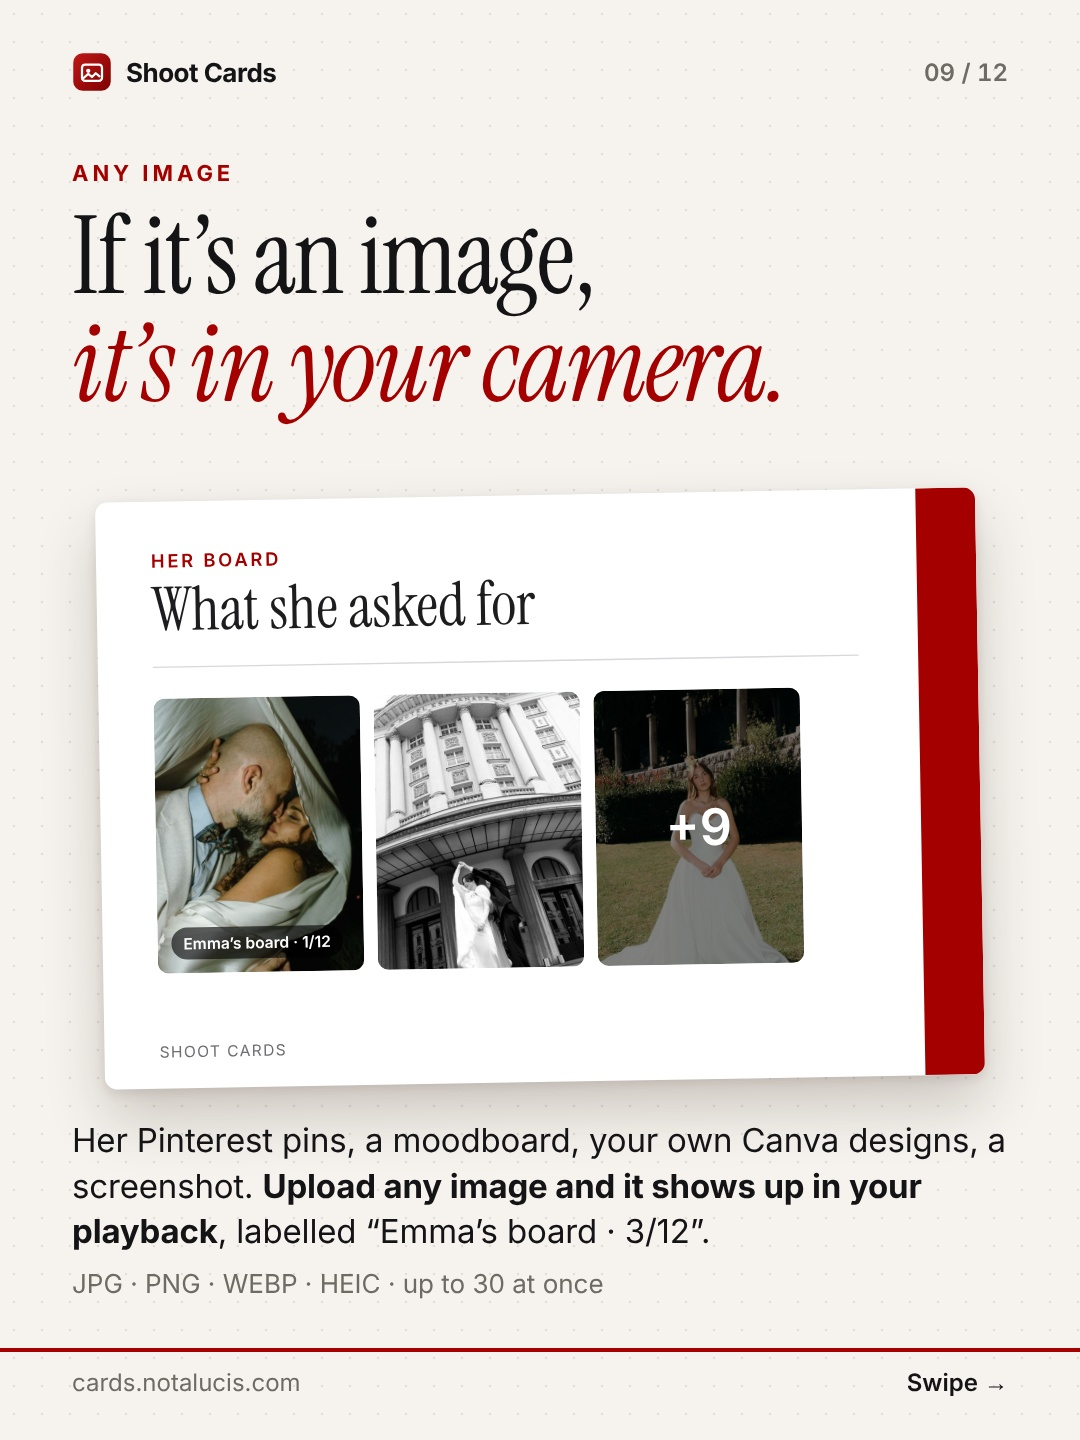
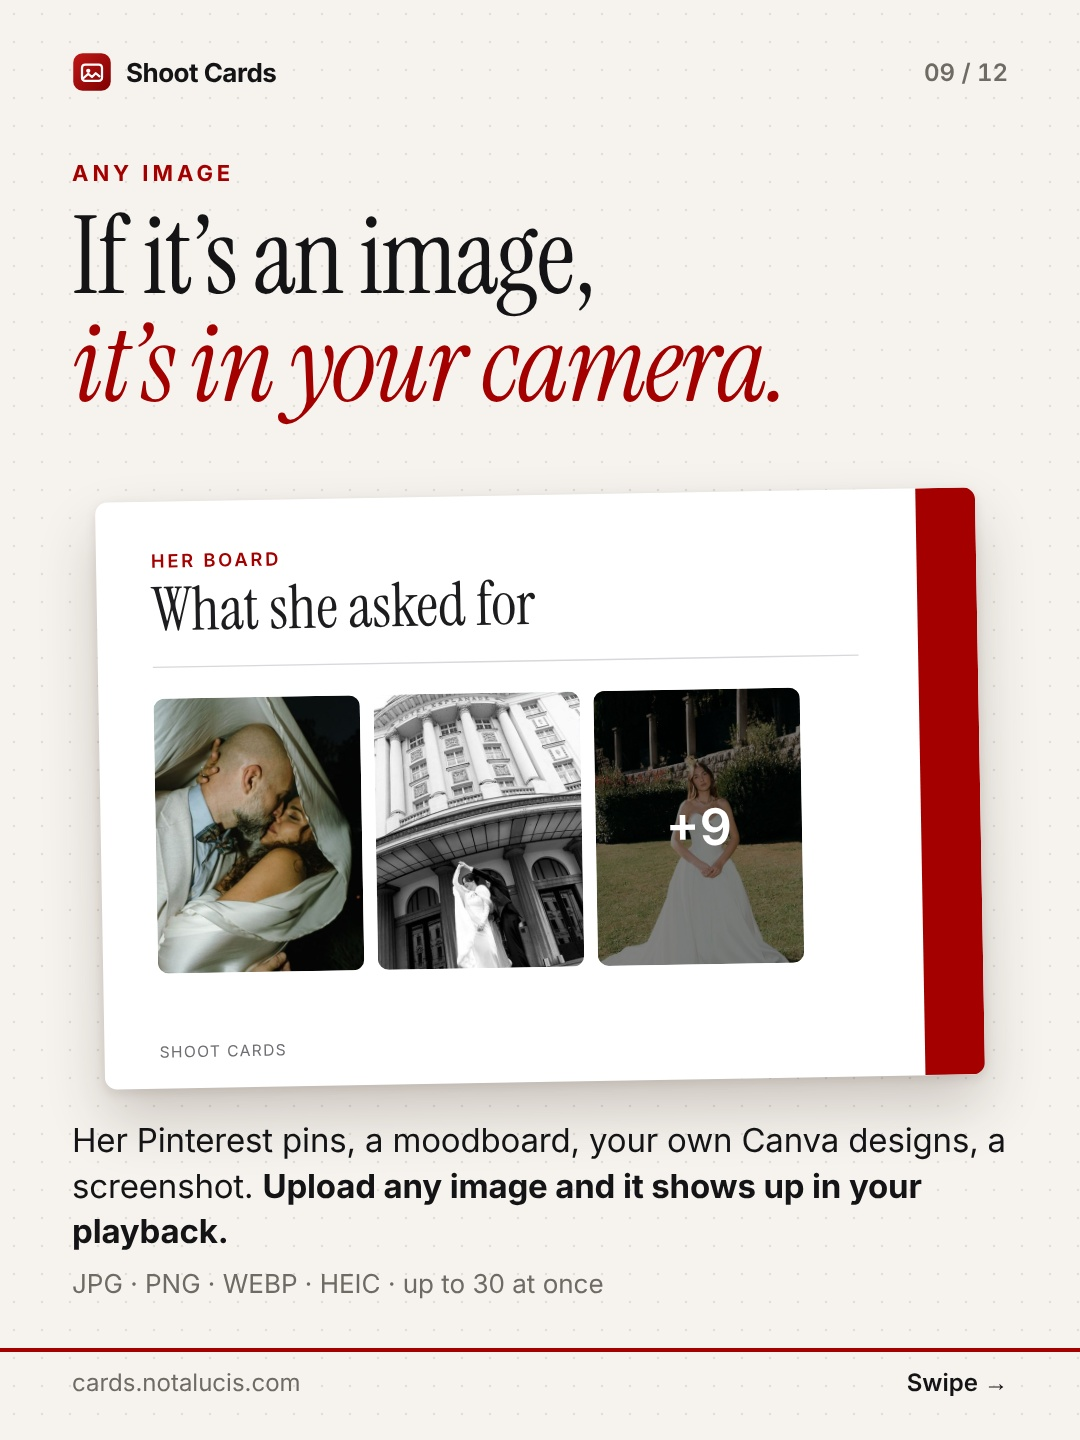
Carousel C: a bigger, sharper camera on slide 1; drop "Emma's board"
Slide 1's photo is now cropped tight from the full-size DSC08435, so the
camera fills the slide, and its line moves under the headline, clear of
the thumb. The any-image slide loses the "Emma's board" label.

Claude-Session: https://claude.ai/code/session_01TJFhN7m6aSDXZ3n1wrSHbs

Changed region(s): [[0.2139, 0.8438, 0.55, 0.875], [0.1528, 0.625, 0.3056, 0.6875], [0.5806, 0.8438, 0.6417, 0.875]]

diff --git a/video/src/carousel/ConceptC.tsx b/video/src/carousel/ConceptC.tsx
@@ -20,19 +20,19 @@ const Wide: React.FC<{ src: string; width: number; rotate?: number; style?: Reac
 const Hook: React.FC<P> = ({ n }) => {
   // The real thing, upright and whole: a hand on the camera, thumb on the dial, The First Look on the screen.
   // Its light wall melts into the paper at every edge.
-  const fade = "linear-gradient(to bottom, transparent 0%, #000 10%, #000 86%, transparent 100%), linear-gradient(to right, transparent 0%, #000 12%, #000 88%, transparent 100%)";
+  const fade = "linear-gradient(to bottom, transparent 0%, #000 5%, #000 82%, transparent 96%), linear-gradient(to right, transparent 0%, #000 7%, #000 93%, transparent 100%)";
   return (
     <Slide n={n} total={N}>
-      <div style={{ position: "absolute", left: 108, top: 300, width: 864, height: 1152, WebkitMaskImage: fade, maskImage: fade, WebkitMaskComposite: "source-in", maskComposite: "intersect" }}>
-        <Img src={staticFile("photos/DSC08435.jpg")} style={{ width: "100%", height: "100%", objectFit: "cover" }} />
+      {/* cropped from the full-size original (source/DSC08435.jpg) so the camera fills the slide */}
+      <div style={{ position: "absolute", left: 140, top: 468, width: 800, height: 1067, WebkitMaskImage: fade, maskImage: fade, WebkitMaskComposite: "source-in", maskComposite: "intersect" }}>
+        <Img src={staticFile("carousel/hook-camera.jpg")} style={{ width: "100%", height: "100%", objectFit: "cover" }} />
       </div>
       <div style={{ position: "absolute", left: M, right: M, top: 150 }}>
         <Label>For wedding photographers</Label>
         <Headline size={98} style={{ marginTop: 16 }}>{"Never look *unprepared*\nin front of a couple again."}</Headline>
+        <Body size={32} style={{ marginTop: 18, color: INK }}>Poses · timeline · family groups · shot list. <b style={{ color: RED }}>On your camera.</b></Body>
       </div>
-      <div style={{ position: "absolute", left: M, top: 1220, background: "rgba(20,20,22,0.85)", color: "#fff", borderRadius: 18, padding: "18px 26px", fontFamily: SANS, fontSize: 30, fontWeight: 600, letterSpacing: "-0.01em" }}>
-        Poses · timeline · family groups · shot list. <span style={{ color: "#ff8a7e" }}>On your camera.</span>
-      </div>
+
     </Slide>
   );
 };
@@ -144,12 +144,11 @@ const AnyImage: React.FC<P> = ({ n }) => {
               {i === 2 ? <div style={{ position: "absolute", inset: 0, background: "rgba(0,0,0,.5)", display: "flex", alignItems: "center", justifyContent: "center", fontFamily: SANS, fontWeight: 600, fontSize: 110, color: "#fff" }}>+9</div> : null}
             </div>
           ))}
-          <div style={{ position: "absolute", left: 150, top: 930, height: 70, padding: "0 26px", borderRadius: 35, background: "rgba(0,0,0,.62)", display: "flex", alignItems: "center", fontFamily: SANS, fontWeight: 600, fontSize: 34, color: "#fff" }}>Emma’s board · 1/12</div>
           <div style={{ position: "absolute", left: 120, top: 1180, fontFamily: SANS, fontSize: 34, letterSpacing: 3, color: "#6e6e73" }}>SHOOT CARDS</div>
         </div>
       </div>
       <Body size={33} style={{ position: "absolute", left: M, right: M, top: 1118, color: INK }}>
-        Her Pinterest pins, a moodboard, your own Canva designs, a screenshot. <b>Upload any image and it shows up in your playback</b>, labelled “Emma’s board · 3/12”.
+        Her Pinterest pins, a moodboard, your own Canva designs, a screenshot. <b>Upload any image and it shows up in your playback.</b>
       </Body>
       <div style={{ position: "absolute", left: M, right: M, top: 1268, fontFamily: SANS, fontSize: 26, color: MUTED }}>JPG · PNG · WEBP · HEIC · up to 30 at once</div>
     </Slide>

diff --git a/video/storyboards/carousel.md b/video/storyboards/carousel.md
@@ -31,7 +31,7 @@ What the research says works, and how it's used:
 7. The close (as A10).
 
 **C: "Never look unprepared in front of a couple again"** (12 slides; the one to post first). Problem solving for the whole day, not just posing, and the reassurance of looking professional.
-1. "For wedding photographers", the headline, and the real thing, upright and whole: DSC08435, a hand on the camera, thumb on the dial, The First Look on the screen, its edges fading into the paper. "Poses, timeline, family groups, shot list. All on the camera already in your hand."
+1. "For wedding photographers", the headline, and the real thing, upright and whole: DSC08435 cropped tight from the full-size original (`public/carousel/hook-camera.jpg`): a hand on the camera, thumb on the dial, The First Look on the screen, its edges fading into the paper. The line "Poses · timeline · family groups · shot list. On your camera." sits under the headline. "Poses, timeline, family groups, shot list. All on the camera already in your hand."
 2. "The wedding day, the old way:" Pinterest, a PDF, the planner, a notes app, each struck through. Then "All on your phone, in front of your couple. It looks like you don't know what's next."
 3. "Now it's all on your camera screen. Faster, calmer, more professional.": the pose card next to the timeline, groups and shot-list cards.
 4. Mid-shoot: "Glance down. Swipe. Shoot." over a frame from the real wedding take (the card on the camera, the couple waiting).
@@ -39,7 +39,7 @@ What the research says works, and how it's used:
 6. The timeline, one swipe away.
 7. Family groups, in order.
 8. The must-haves, covered (shot list).
-9. Any image: "If it's an image, it's in your camera." Her Pinterest pins, a moodboard, Canva designs, screenshots, labelled "Emma's board · 3/12". JPG · PNG · WEBP · HEIC, up to 30 at once (the site's "Any image" / "Her board").
+9. Any image: "If it's an image, it's in your camera." Her Pinterest pins, a moodboard, Canva designs, screenshots. JPG · PNG · WEBP · HEIC, up to 30 at once (the site's "Any image" / "Her board").
 10. Be ready for anything: "Better prepared than sorry." The couple freezes, the day runs late, "Did we get Grandma?", she shows you her Pinterest: each with the card that already has the answer.
 11. Three steps, with three real cards on the camera.
 12. The close.
